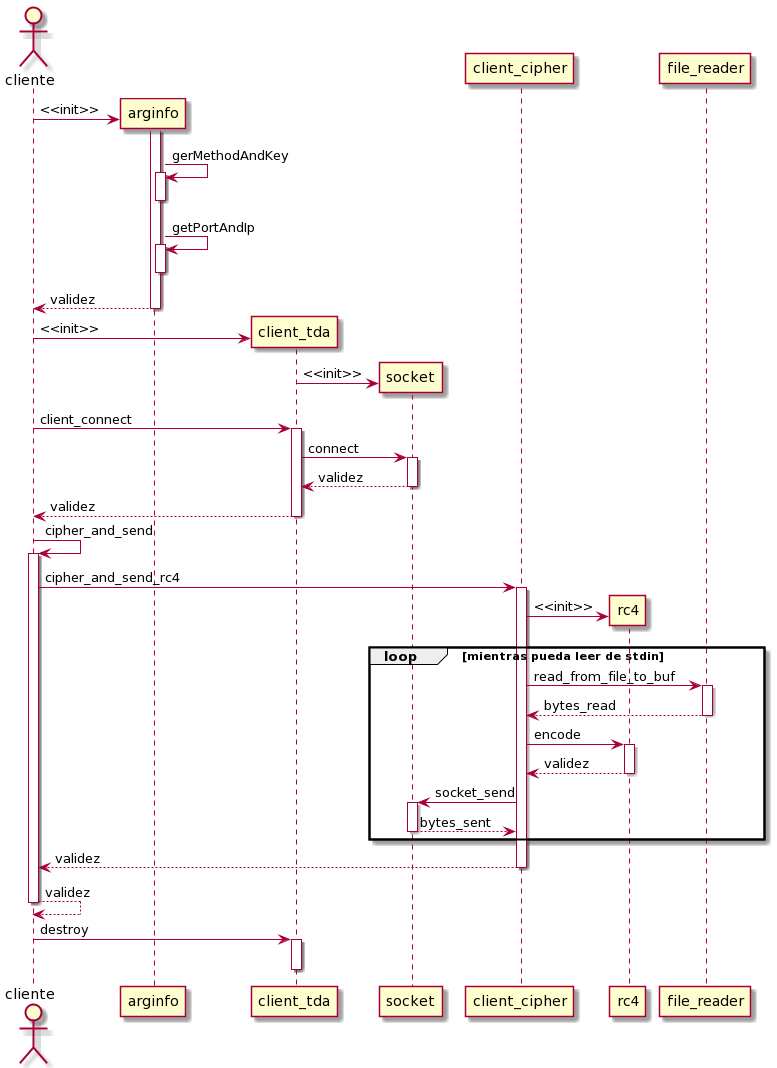
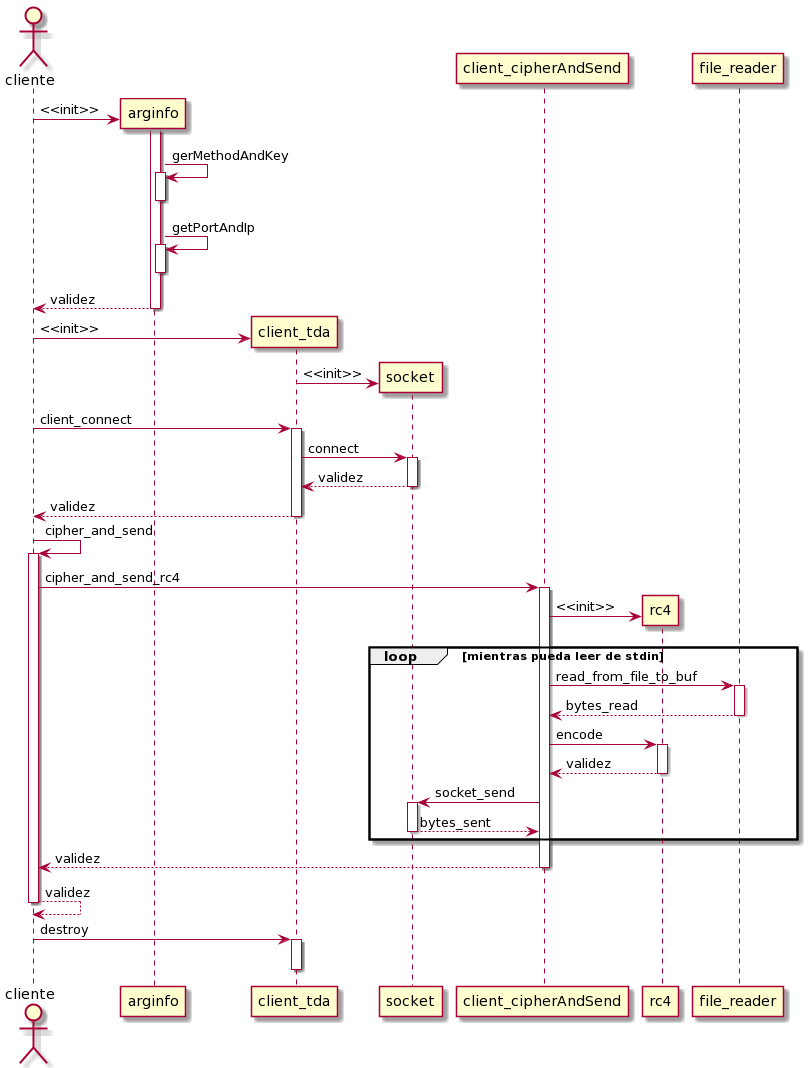
Mejoro algunos nombres

diff --git a/common_rc4.c b/common_rc4.c
@@ -21,7 +21,7 @@ static void _swap_chars(unsigned char* s, unsigned int coef1,
 
 int rc4_cipher_init(rc4_cipher_t* cipher, unsigned char* key) {
   if (cipher == NULL || key == NULL) return -1;
-  cipher->a = cipher->b = 0;
+  cipher->coefi = cipher->coefj = 0;
   unsigned int len = (unsigned int)strlen((char*)key);
 
   unsigned int i, j;
@@ -38,16 +38,16 @@ int rc4_cipher_init(rc4_cipher_t* cipher, unsigned char* key) {
 unsigned char randChar(rc4_cipher_t* cipher) {
   if (cipher == NULL) return -1;
 
-  unsigned int i = cipher->a;  // Con estas variables evitamos
-  unsigned int j = cipher->b;  // tantos accesos a memoria.
+  unsigned int i = cipher->coefi;  // Con estas variables evitamos
+  unsigned int j = cipher->coefj;  // tantos accesos a memoria.
 
   i = (i + 1) & 255;
   j = (j + cipher->S[i]) & 255;
 
   _swap_chars(cipher->S, i, j);
 
-  cipher->a = i;
-  cipher->b = j;
+  cipher->coefi = i;
+  cipher->coefj = j;
 
   return cipher->S[(cipher->S[i] + cipher->S[j]) & 255];
 }

diff --git a/server_decipherAndRecv.h b/server_decipherAndRecv.h
@@ -1,6 +1,6 @@
 // Copyright [2020]<Jonathan David Rosenblatt>
-#ifndef SERVER_DECIPHER_H_
-#define SERVER_DECIPHER_H_
+#ifndef SERVER_DECIPHERANDRECV_H_
+#define SERVER_DECIPHERANDRECV_H_
 
 #include "common_server_tda.h"
 
@@ -34,4 +34,4 @@ int decipher_and_recv_vigenere(server_t* self, unsigned char* key);
  */
 int decipher_and_recv_rc4(server_t* self, unsigned char* key);
 
-#endif  // SERVER_DECIPHER_H_
+#endif  // SERVER_DECIPHERANDRECV_H_

diff --git a/client_cipherAndSend.h b/client_cipherAndSend.h
@@ -1,6 +1,6 @@
 // Copyright [2020]<Jonathan David Rosenblatt>
-#ifndef CLIENT_CIPHER_H_
-#define CLIENT_CIPHER_H_
+#ifndef CLIENT_CIPHERANDSEND_H_
+#define CLIENT_CIPHERANDSEND_H_
 
 #include "common_client_tda.h"
 
@@ -34,4 +34,4 @@ int cipher_and_send_vigenere(client_t* self, unsigned char* key);
  */
 int cipher_and_send_rc4(client_t* self, unsigned char* key);
 
-#endif  // CLIENT_CIPHER_H_
+#endif  // CLIENT_CIPHERANDSEND_H_

diff --git a/server_main.c b/server_main.c
@@ -3,7 +3,7 @@
 #include <string.h>
 
 #include "common_arginfo.h"
-#include "server_decipher.h"
+#include "server_decipherAndRecv.h"
 #include "common_server_tda.h"
 #include "common_socket.h"
 

diff --git a/client_main.c b/client_main.c
@@ -6,7 +6,7 @@
 #include <unistd.h>
 
 #include "common_arginfo.h"
-#include "client_cipher.h"
+#include "client_cipherAndSend.h"
 #include "common_client_tda.h"
 #include "common_socket.h"
 

diff --git a/common_rc4.h b/common_rc4.h
@@ -10,8 +10,8 @@
  */
 typedef struct rc4_cipher {
   unsigned char S[256];
-  unsigned int a;
-  unsigned int b;
+  unsigned int coefi;
+  unsigned int coefj;
 } rc4_cipher_t;
 
 /*

diff --git a/server_decipherAndRecv.c b/server_decipherAndRecv.c
@@ -1,6 +1,6 @@
 // Copyright [2020]<Jonathan David Rosenblatt>
 
-#include "server_decipher.h"
+#include "server_decipherAndRecv.h"
 
 #include <stddef.h>
 #include <stdio.h>

diff --git a/client_cipherAndSend.c b/client_cipherAndSend.c
@@ -1,6 +1,6 @@
 // Copyright [2020]<Jonathan David Rosenblatt>
 
-#include "client_cipher.h"
+#include "client_cipherAndSend.h"
 
 #include <stddef.h>
 #include <stdio.h>

diff --git a/README.md b/README.md
@@ -37,7 +37,7 @@ Aclaración: el mensaje que reciba el servidor tendrá sentido solo si el métod
 
 El proyecto tiene varios archivos y cada uno de ellos representa y abstrae las diferentes funcionalidades que se necesitan para que funcionen en conjunto. Las clases que terminan con ```"_main.c"``` son el esqueleto del proyecto, llaman a todas las otras funciones y verifican los outputs de todas.
 
-Luego están las funciones ```client_cipher``` y ```server_cipher``` que llaman y verifican lo que hacen los encriptadores, los sockets (encapsulados por los tdas ```client_tda``` y ```server_tda```) y el lector de archivos en el caso del cliente. Estos le proveen a los ```_main``` una buena abstracción de como cada cifrador opera, de como se lee del stdin y de como operan los sockets.
+Luego están las funciones ```client_cipherAndSend``` y ```server_decipherAndRecv``` que llaman y verifican lo que hacen los encriptadores, los sockets (encapsulados por los tdas ```client_tda``` y ```server_tda```) y el lector de archivos en el caso del cliente. Estos le proveen a los ```_main``` una buena abstracción de como cada cifrador opera, de como se lee del stdin y de como operan los sockets.
 
 Finalmente están las 3 clases encriptadoras y el socket. La implementación de los ```client_tda``` y ```server_tda``` abstraen la implementación del socket.
 
@@ -53,7 +53,7 @@ Vemos que el servidor le pide a su TDA que se conecte con el cliente, sin saber 
 
 Luego de establecer una conexión el servidor le delega a otra entidad el descifrado de los datos que llegan por red, y una vez más vemos como el servidor no se tiene que preocupar de como desciframos o pedimos los datos. 
 
-El server_decipher a su vez le delega al server_tda que busque los datos y descifra todo siempre que el socket, encapsulado por el server_tda, pueda recibir datos.
+El server_decipherAndRecv a su vez le delega al server_tda que busque los datos y descifra todo siempre que el socket, encapsulado por el server_tda, pueda recibir datos.
 
 Finalmente el servidor libera todos los recursos utilizados.
 
